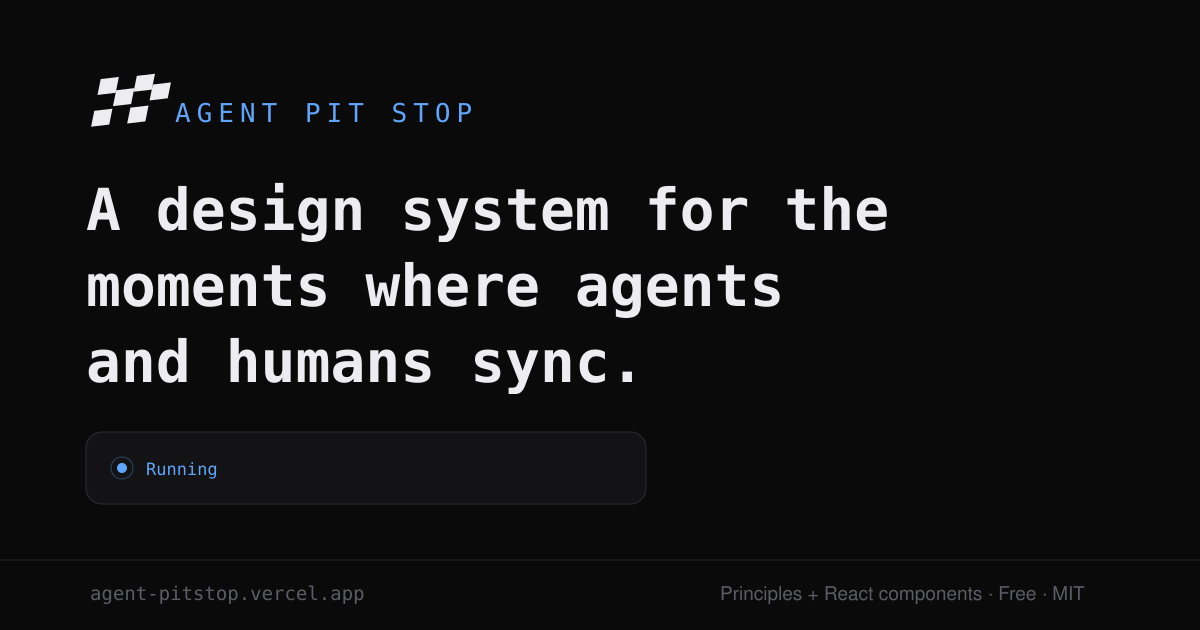
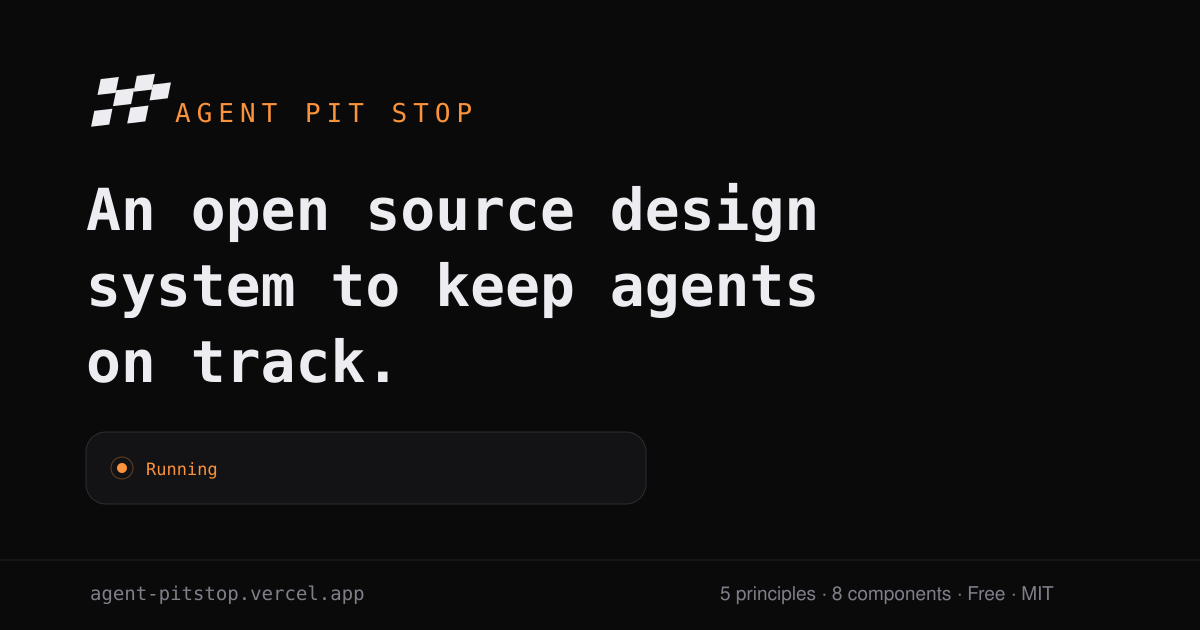
feat: pit-lane orange rebrand + headlights design language (ghosting, dot-grid, sibling dim, motion principles)

diff --git a/app/principles/page.tsx b/app/principles/page.tsx
@@ -96,6 +96,62 @@ export default function PrinciplesOverview() {
       </ul>
 
       <h2 className="mt-12 font-mono text-lg font-semibold tracking-tight text-chalk">
+        The design language: headlights
+      </h2>
+      <p className="mt-3 max-w-prose text-[15px] leading-relaxed text-smoke">
+        A night race. The interface is dark and calm; light is spent only on what matters
+        right now. Attention is the scarcest resource in an agent product, so the visual
+        system is built to spend it deliberately.
+      </p>
+      <ul className="mt-4 max-w-prose space-y-3 text-[15px] leading-relaxed text-smoke">
+        <li>
+          <strong className="text-chalk">One bright thing per surface.</strong> The current
+          element renders at full strength; supporting context ghosts back to ~45–60%.
+          If everything is lit, nothing is.
+        </li>
+        <li>
+          <strong className="text-chalk">The past dims, the present glows, the future is
+          outlined.</strong> Completed work fades to smoke, the active step holds chalk with
+          a pit-orange pulse, pending work is drawn in ash outlines. Time is rendered as
+          light.
+        </li>
+        <li>
+          <strong className="text-chalk">Large calm containers.</strong> Feature surfaces use
+          24px radius, generous padding, hairline borders one step above their background,
+          and a whisper of dot-grid texture. Components inside stay tighter at 12px.
+        </li>
+        <li>
+          <strong className="text-chalk">Pit-lane orange is earned.</strong> The accent marks
+          the live thing: the running dot, the agent car, the primary action. It never
+          decorates. Caution is yellow, success is green, danger is red, and none of them
+          ever speak through color alone.
+        </li>
+      </ul>
+
+      <h2 className="mt-12 font-mono text-lg font-semibold tracking-tight text-chalk">Motion</h2>
+      <ul className="mt-4 max-w-prose space-y-3 text-[15px] leading-relaxed text-smoke">
+        <li>
+          <strong className="text-chalk">Motion is state change, never decoration.</strong>{" "}
+          Every animation answers one question: what just happened, or where should I look?
+        </li>
+        <li>
+          <strong className="text-chalk">Three speeds.</strong> Micro-feedback at ~150ms,
+          element entrances and collapses at 250–400ms with the house ease
+          (0.32, 0.72, 0, 1), ambient pulses at 1.2–1.4s. Nothing else.
+        </li>
+        <li>
+          <strong className="text-chalk">Arrive rising, leave collapsing.</strong> New
+          information enters with a small rise and settle; resolved information collapses
+          to a receipt. Closing is always faster than opening.
+        </li>
+        <li>
+          <strong className="text-chalk">Ambient means honest.</strong> Pulses mark genuinely
+          live processes only; no fake progress, no decorative loops. All motion respects
+          prefers-reduced-motion.
+        </li>
+      </ul>
+
+      <h2 className="mt-12 font-mono text-lg font-semibold tracking-tight text-chalk">
         The essentials
       </h2>
       <p className="mt-3 max-w-prose text-[15px] leading-relaxed text-smoke">

diff --git a/app/page.tsx b/app/page.tsx
@@ -131,7 +131,7 @@ export default function Home() {
       <Reveal delay={0.1}>
         <div className="mt-10 grid gap-3 lg:grid-cols-[1.55fr_1fr]">
           {/* large card: headline / flag / paragraph */}
-          <div className="flex flex-col gap-7 rounded-2xl border border-line bg-carbon p-7 md:p-9">
+          <div className="flex flex-col gap-7 rounded-3xl border border-line bg-carbon bg-dots p-7 md:p-9">
             <h1 className="max-w-md text-balance text-[27px] font-semibold leading-tight tracking-tight text-chalk md:text-[33px]">
               An open source design system to keep agents on&nbsp;track.
             </h1>
@@ -151,13 +151,13 @@ export default function Home() {
           </div>
 
           {/* three link cards */}
-          <div className="grid gap-3">
+          <div className="dim-siblings grid gap-3">
             {heroCards.map((card) =>
               card.external ? (
                 <a
                   key={card.title}
                   href={card.href}
-                  className="group flex min-h-[150px] flex-col justify-between rounded-2xl border border-line bg-carbon p-6 transition-colors hover:border-ash md:min-h-[172px]"
+                  className="group flex min-h-[150px] flex-col justify-between rounded-3xl border border-line bg-carbon p-6 transition-colors hover:border-ash md:min-h-[172px]"
                 >
                   {card.icon}
                   <div>
@@ -171,7 +171,7 @@ export default function Home() {
                 <Link
                   key={card.title}
                   href={card.href}
-                  className="group flex min-h-[150px] flex-col justify-between rounded-2xl border border-line bg-carbon p-6 transition-colors hover:border-ash md:min-h-[172px]"
+                  className="group flex min-h-[150px] flex-col justify-between rounded-3xl border border-line bg-carbon p-6 transition-colors hover:border-ash md:min-h-[172px]"
                 >
                   {card.icon}
                   <div>
@@ -211,12 +211,12 @@ export default function Home() {
               Browse all 8 →
             </Link>
           </div>
-          <div className="mt-4 grid gap-3 md:grid-cols-3">
+          <div className="dim-siblings mt-4 grid gap-3 md:grid-cols-3">
             {teasers.map((t) => (
               <Link
                 key={t.slug}
                 href={`/components/${t.slug}`}
-                className="group flex flex-col gap-4 rounded-2xl border border-line bg-carbon p-5 transition-colors hover:border-ash"
+                className="group flex flex-col gap-4 rounded-3xl border border-line bg-carbon p-5 transition-colors hover:border-ash"
               >
                 <div className="pointer-events-none">{minis[t.slug]}</div>
                 <div className="mt-auto flex items-baseline justify-between">

diff --git a/app/full-lap/lap-run.tsx b/app/full-lap/lap-run.tsx
@@ -129,6 +129,7 @@ export function LapRun() {
           title="Start the booking run?"
           reason="I'll search, compare, and hold the best fare. Nothing gets charged without you."
           state={past("contract") || step !== "contract" ? "approved" : "awaiting"}
+          className={`transition-opacity duration-700 ${past("plan") ? "opacity-60" : ""}`}
           scope={[
             { label: "Search flights across 3 providers" },
             { label: "Hold one fare (free to cancel)" },
@@ -145,6 +146,7 @@ export function LapRun() {
                 state={past("search") ? "success" : interrupted ? "pending" : "running"}
                 elapsed={step === "search" ? tick + 1 : undefined}
                 detail={past("search") ? "14 flights found. Cheapest nonstop: $278 (JetBlue 616)." : undefined}
+                className={`transition-opacity duration-700 ${past("confidence") ? "opacity-60" : ""}`}
               />
             </motion.div>
           )}
@@ -157,6 +159,7 @@ export function LapRun() {
                 claim="JetBlue 616 is your best option: $278, nonstop, aisle available"
                 basis="price, your seat history, 92% on-time"
                 confidence={0.86}
+                className={`transition-opacity duration-700 ${atOrPast("book-gate") ? "opacity-60" : ""}`}
               />
             </motion.div>
           )}
@@ -183,6 +186,7 @@ export function LapRun() {
                       ? "Held for 20 minutes. No charge yet."
                       : undefined
                 }
+                className={`transition-opacity duration-700 ${atOrPast("booked") ? "opacity-60" : ""}`}
               />
             </motion.div>
           )}

diff --git a/app/components/page.tsx b/app/components/page.tsx
@@ -20,12 +20,12 @@ export default function ComponentsOverview() {
       {componentCategories.map((cat) => (
         <section key={cat} className="mt-12">
           <h2 className="text-sm font-medium uppercase tracking-wide text-ash">{cat}</h2>
-          <div className="mt-4 grid gap-5 md:grid-cols-2">
+          <div className="dim-siblings mt-4 grid gap-5 md:grid-cols-2">
             {componentsIn(cat).map((c) => (
               <Link
                 key={c.slug}
                 href={`/components/${c.slug}`}
-                className="group rounded-2xl border border-line bg-carbon p-5 transition-all duration-300 ease-out hover:-translate-y-1 hover:border-ash hover:shadow-[0_12px_32px_rgba(0,0,0,0.45)]"
+                className="group rounded-3xl border border-line bg-carbon p-5 transition-all duration-300 ease-out hover:-translate-y-1 hover:border-ash hover:shadow-[0_12px_32px_rgba(0,0,0,0.45)]"
               >
                 <div className="pointer-events-none">{minis[c.slug]}</div>
                 <div className="mt-4 text-[15px] font-medium text-chalk group-hover:text-pit">

diff --git a/app/how-it-works/page.tsx b/app/how-it-works/page.tsx
@@ -89,7 +89,7 @@ export default function HowItWorksPage() {
           where humans intervene. Design the pit well and users delegate more laps, the
           same way drivers go faster in cars with better brakes.
         </P>
-        <div className="mt-6 -mx-2 rounded-2xl border border-line bg-carbon p-4 md:p-6">
+        <div className="mt-6 -mx-2 rounded-3xl border border-line bg-carbon bg-dots p-4 md:p-6">
           <TrackLoop variant="full" className="w-full" />
         </div>
         <P>
@@ -147,9 +147,9 @@ export default function HowItWorksPage() {
   --color-smoke: #9a9aa3;    /* secondary */
   --color-ash: #7f7f8a;      /* tertiary (keep >= 4.5:1) */
   /* signals */
-  --color-pit: #60a5fa;      /* accent: swap for your brand */
+  --color-pit: #fb923c;      /* accent: swap for your brand */
   --color-signal: #34d399;   /* success */
-  --color-caution: #fbbf24;  /* attention */
+  --color-caution: #fde047;  /* attention */
   --color-flag: #f87171;     /* danger */
 }`}
           />

diff --git a/app/globals.css b/app/globals.css
@@ -10,9 +10,9 @@
   --color-smoke: #9a9aa3;
   --color-ash: #7f7f8a;
   --color-signal: #34d399;
-  --color-caution: #fbbf24;
+  --color-caution: #fde047;
   --color-flag: #f87171;
-  --color-pit: #60a5fa;
+  --color-pit: #fb923c;
 }
 
 @theme inline {
@@ -28,6 +28,20 @@ html {
 
 ::selection {
   background: color-mix(in srgb, var(--color-pit) 30%, transparent);
+}
+
+/* headlights language: faint dot-grid texture for large surfaces */
+.bg-dots {
+  background-image: radial-gradient(color-mix(in srgb, var(--color-line) 55%, transparent) 1px, transparent 1px);
+  background-size: 18px 18px;
+}
+
+/* headlights language: hovering one child ghosts its siblings */
+.dim-siblings > * {
+  transition: opacity 0.35s ease;
+}
+.dim-siblings:hover > :not(:hover) {
+  opacity: 0.45;
 }
 
 :focus-visible {

diff --git a/components/docs/preview-pane.tsx b/components/docs/preview-pane.tsx
@@ -112,7 +112,7 @@ export function PreviewPane({ formats, children, variants, chatPrompt }: Preview
         ))}
       </div>
 
-      <div className="rounded-2xl border border-line bg-carbon p-6">
+      <div className="rounded-3xl border border-line bg-carbon bg-dots p-6">
         {format === "mobile" ? (
           <div className="mx-auto w-[300px] rounded-[2rem] border border-line bg-track p-3 pt-6 shadow-2xl">
             <div className="mx-auto mb-3 h-1.5 w-16 rounded-full bg-barrier" aria-hidden />
